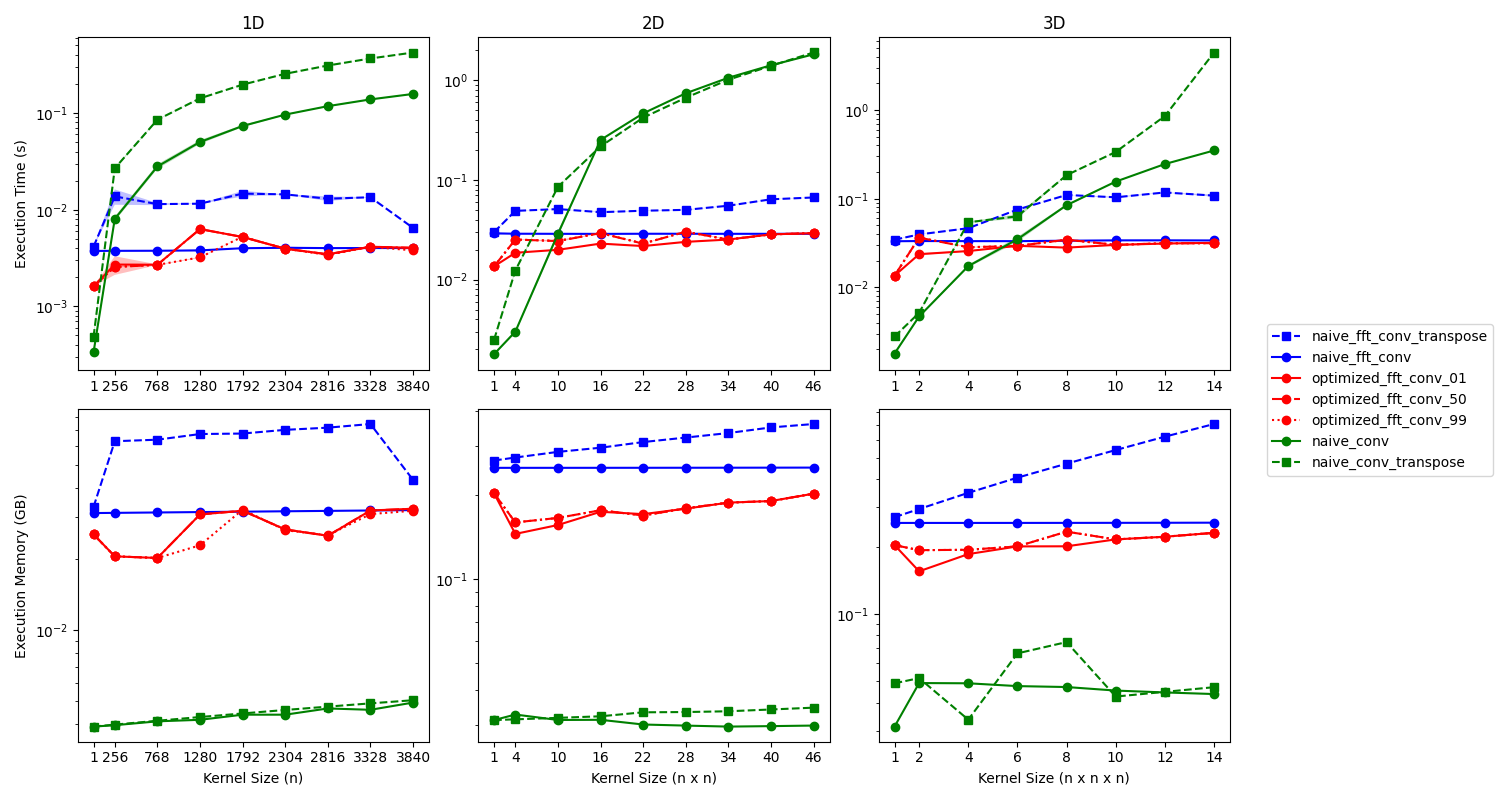
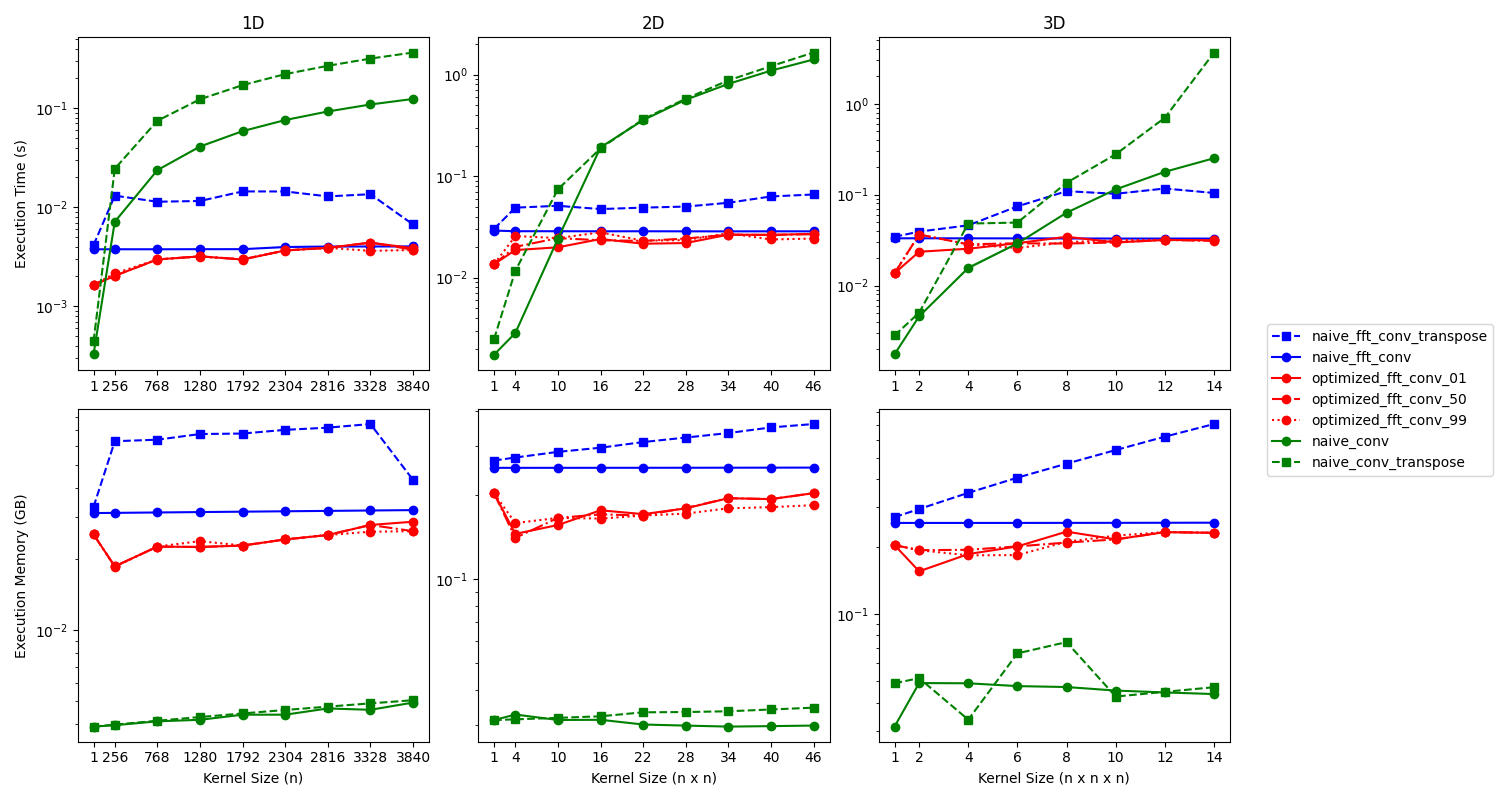
Apply cuFFT's optimization guide

diff --git a/fft_conv_pytorch/optimized.py b/fft_conv_pytorch/optimized.py
@@ -12,95 +12,56 @@ from .functional import complex_matmul
 from .utils import to_ntuple
 
 
-class prod:
-    def __init__(self):
-        self.items = defaultdict(lambda: 1)
-        self.index = 0
+def blocksize_candidate(start, end):
+    def _sub(x):
+        for p in [2, 3, 5, 7]:
+            while x % p == 0:
+                x //= p
+        return x == 1
 
-    def reset(self):
-        self.index = 0
-
-    def put(self, x):
-        self.items[self.index] = self.items[self.index] * x
-        self.index += 1
-
-    def get(self):
-        value = self.items[self.index]
-        self.index += 1
-        return value
-
-
-class accm(prod):
-    def __init__(self):
-        self.items = defaultdict(lambda: 0)
-        self.index = 0
-
-    def put(self, x):
-        self.items[self.index] = self.items[self.index] + x
-        self.index += 1
+    return [v for v in range(start, end + 1) if _sub(v)]
 
 
 @lru_cache(1024)
 def opt_blocksize(input_size, kernel_size, speed_impt=0.5):
     K = np.asarray(kernel_size[2:])
     S = np.asarray(input_size[2:])
+    n = len(K)
 
-    cost = prod()
-    log_cost = accm()
-    cost.put(np.prod(kernel_size[:2]))
-    cost.put(np.prod(input_size[:2]))
-    cost.put(input_size[0] * np.prod(kernel_size[:2]))
-    cost.put(input_size[0] * kernel_size[0])
+    size_candidate = list(map(blocksize_candidate, K, S * 7))
+    ops_size = list(map(len, size_candidate))
+    c_info = np.ones(ops_size, dtype=np.float64)
+    e_info = np.zeros(ops_size, dtype=np.float64)
+    s_info = np.ones(ops_size, dtype=np.float64)
 
-    cost.put(np.prod(kernel_size[:2]))
-    cost.put(np.prod(input_size[:2]))
-    cost.put(input_size[0] * kernel_size[0])
-    cost.put(input_size[0] * kernel_size[0])
-
-    size_candidate = []
-    for i, (s, k) in enumerate(zip(S, K)):
-        shape = [1] * (len(input_size) - 2)
+    for i, (k, s, bs) in enumerate(zip(K, S, size_candidate)):
+        shape = [1] * n
         shape[i] = -1
-        B_candid = np.arange(1, s + 1)
-        size_candidate.append(B_candid)
-        B = B_candid.reshape(*shape)
-
-        BS = B + k - 1  # active block size
+        BS = np.asarray(bs).reshape(shape)
+        B = BS - k + 1  # valid size
         GP = (s - k) // B * B + BS - s  # Global padding
         BC = (s - k + 1 + GP) // B
-        log = np.ceil(np.log2(BS))
-        kernel_cost = 2**log
-        signal_cost = BC * 2**log
+        c_info *= BC
+        e_info += np.ceil(np.log2(BS))
+        s_info *= BS
 
-        cost.reset()
-        log_cost.reset()
+    # Assume cuFFT is as follows:
+    # time complexity = n ⌈log2 n⌉
+    # memory complexity = 2 ^ ⌈log2 n⌉
+    time_cost = np.prod(kernel_size[:2]) * s_info * e_info
+    time_cost += np.prod(input_size[:2]) * c_info * s_info * e_info
+    time_cost += input_size[0] * np.prod(kernel_size[:2]) * c_info * s_info
+    time_cost += input_size[0] * kernel_size[0] * c_info * s_info * e_info
 
-        log_cost.put(log)
-        cost.put(kernel_cost)
-        cost.put(signal_cost)
-        cost.put(BC * BS)
-        cost.put(signal_cost)
-
-        cost.put(kernel_cost)
-        cost.put(signal_cost)
-        cost.put(BC * BS)
-        cost.put(signal_cost)
-    cost.reset()
-    log_cost.reset()
-
-    log_cost = log_cost.get()
-    time_cost = [cost.get() for _ in range(4)]
-    time_cost[0] *= log_cost
-    time_cost[1] *= log_cost
-    time_cost[3] *= log_cost
-    time_cost = sum(time_cost)
-
-    memo_cost = [cost.get() for _ in range(4)]
-    memo_cost = sum(memo_cost)
+    memo_cost = np.prod(kernel_size[:2]) * 2**e_info
+    memo_cost += np.prod(input_size[:2]) * c_info * 2**e_info
+    memo_cost += input_size[0] * kernel_size[0] * c_info * s_info
+    memo_cost += input_size[0] * kernel_size[0] * c_info * 2**e_info
 
     tradoff = time_cost ** (speed_impt) * memo_cost ** (1 - speed_impt)
     index = (tradoff == np.min(tradoff)).nonzero()
-    return list(map(lambda x, y: x[y], size_candidate, sorted(zip(*index))[0]))
+    index = sorted(zip(*index))[0]
+    return list(map(lambda x, y, z: x[y] - z + 1, size_candidate, index, K))
 
 
 def Dblock(tensor: Tensor, blocksize: Iterable[int], active_blocksize: Iterable[int]):
